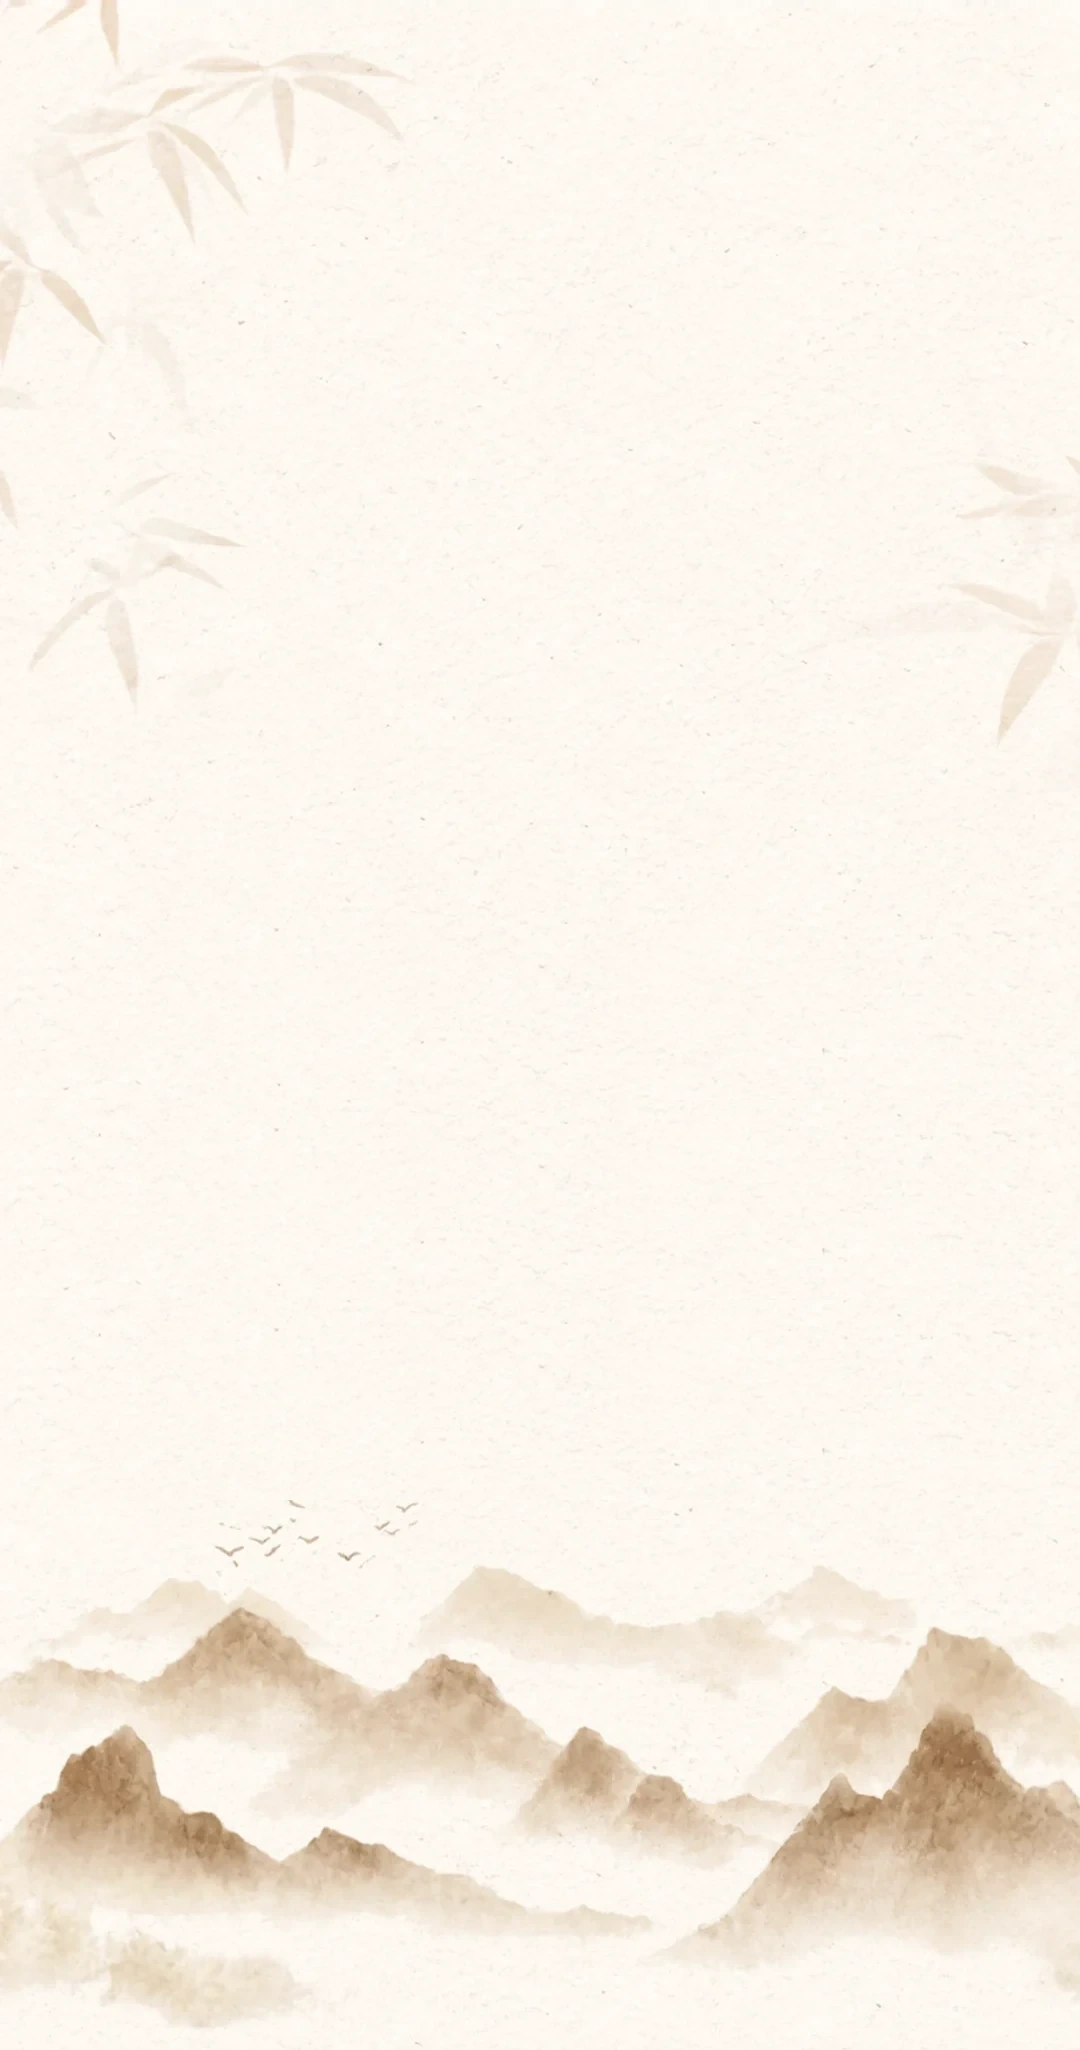
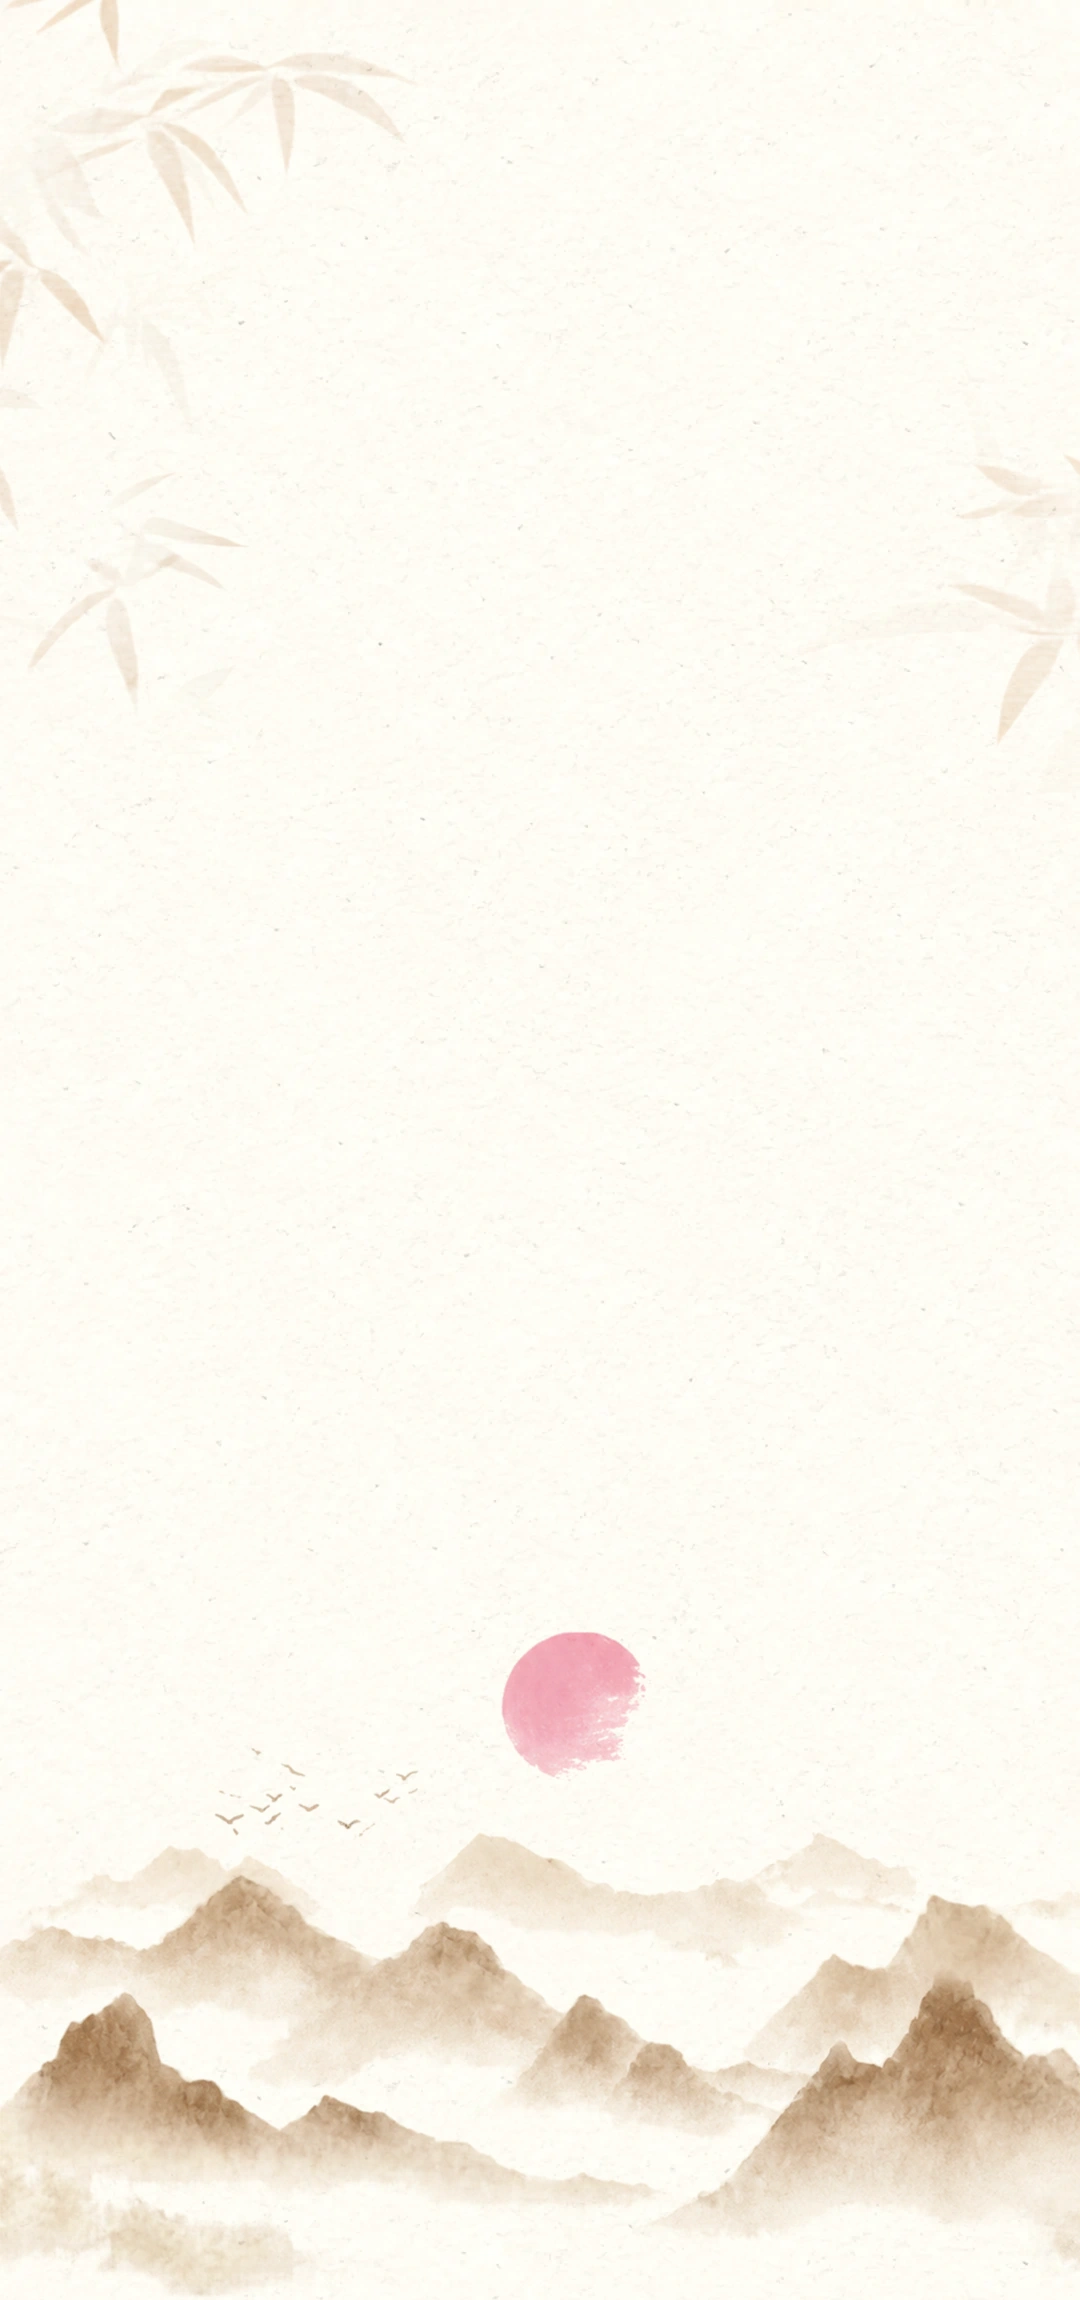
refactor: update brand assets and remove unused public images

diff --git a/content/assets.ts b/content/assets.ts
@@ -18,7 +18,7 @@ export const assets = {
   /** Hoạ tiết rời (hoa, ruy băng, con dấu) — nền trong suốt */
   elements: {
     "agenda": { src: "/brand/elements/agenda.webp", width: 1080, height: 1920 },
-    "dresscode": { src: "/brand/elements/dresscode.webp", width: 1080, height: 2050 },
+    "dresscode": { src: "/brand/elements/dresscode.webp", width: 1080, height: 2300 },
     "rsvp-bloom-left": { src: "/brand/elements/rsvp-bloom-left.webp", width: 520, height: 829 },
     "rsvp-bloom-right": { src: "/brand/elements/rsvp-bloom-right.webp", width: 520, height: 1128 },
     "rsvp-card-bottom": { src: "/brand/elements/rsvp-card-bottom.webp", width: 1080, height: 799 },
